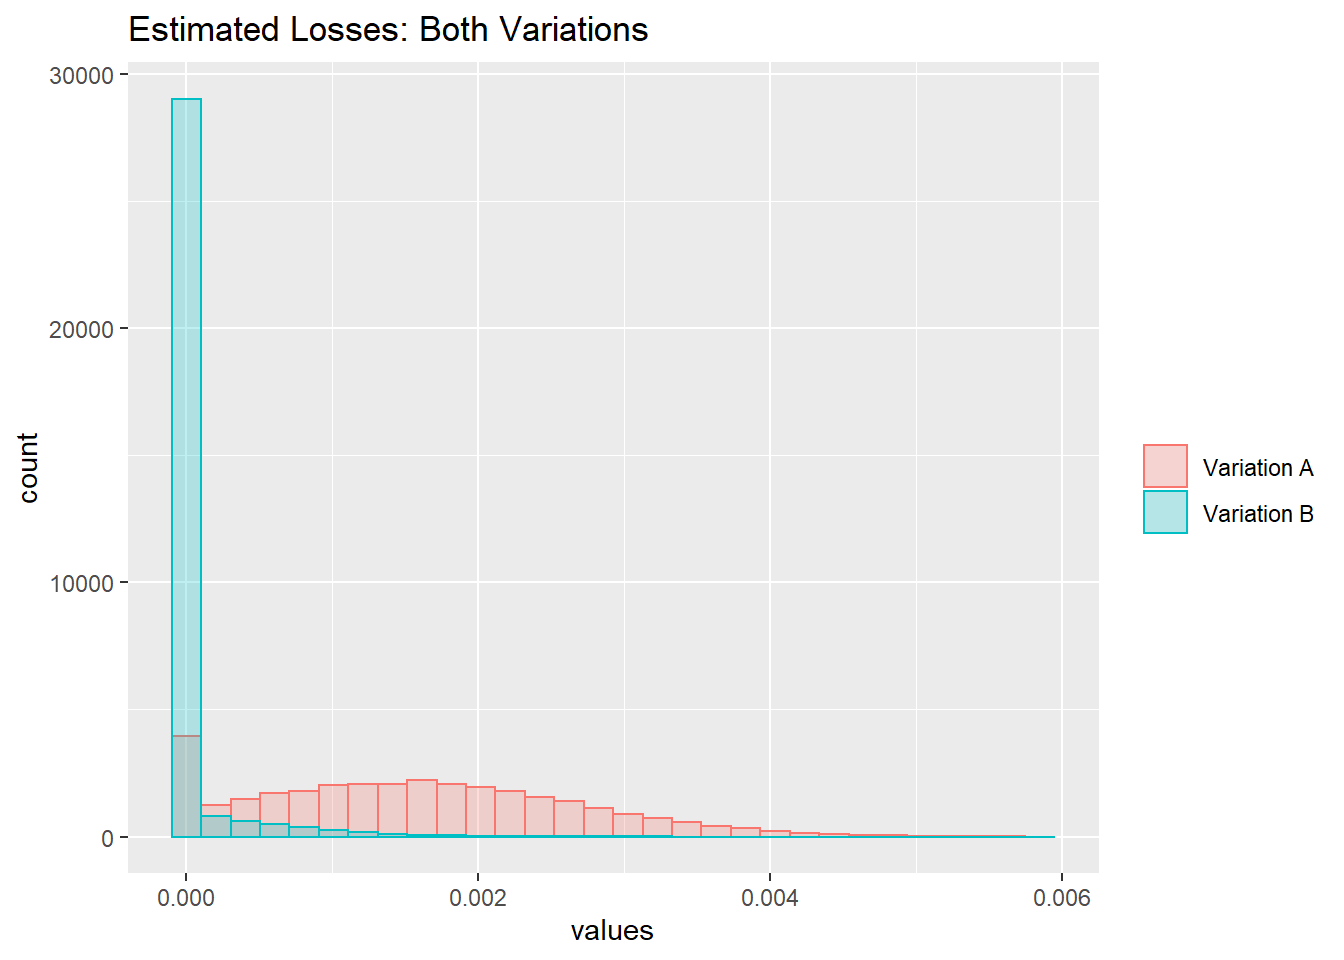
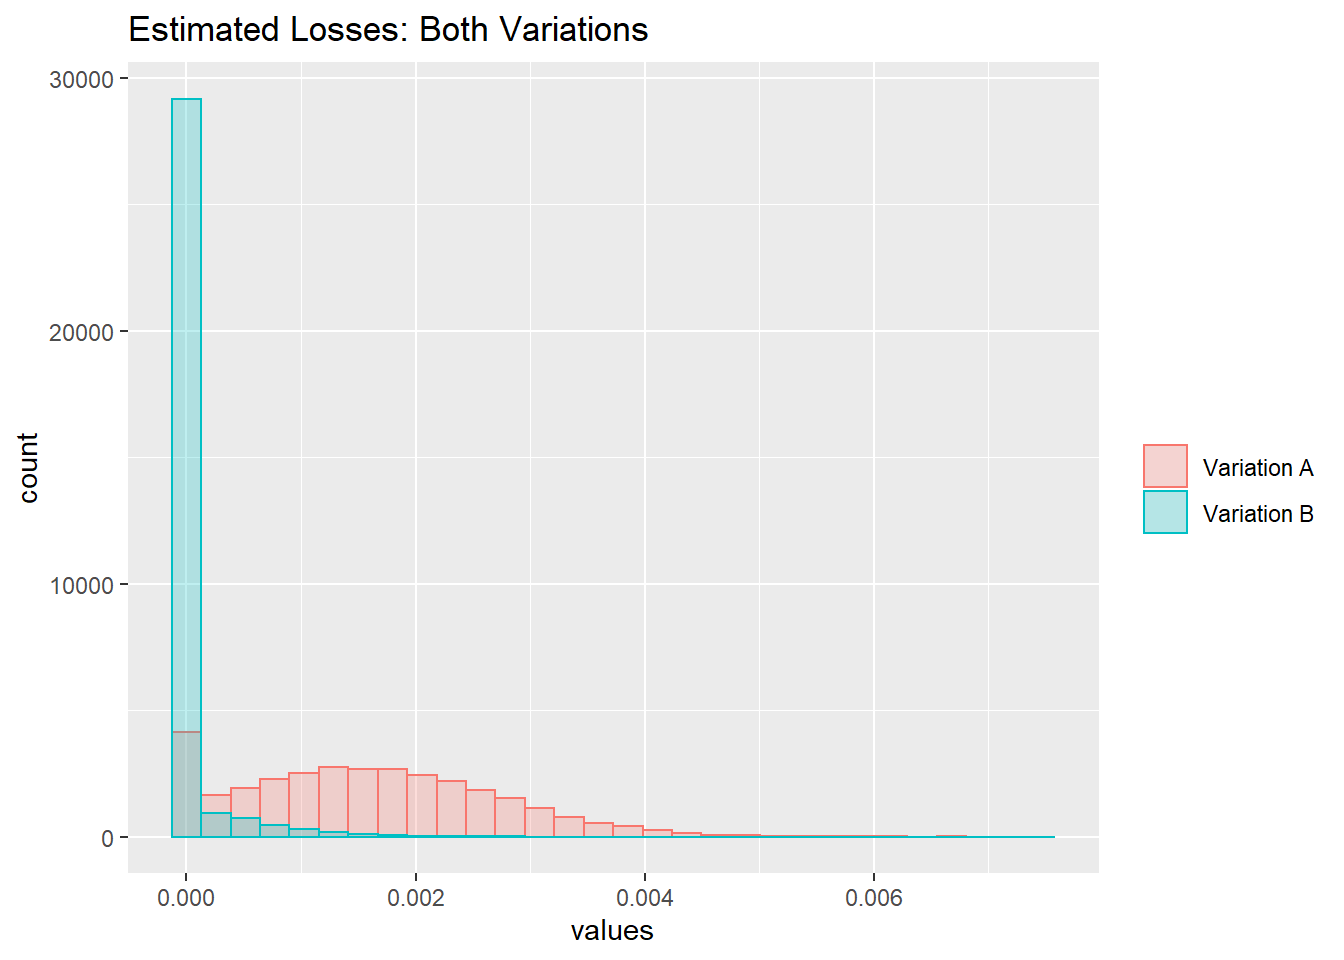
update home and navbar

diff --git a/docs/tutorial.html b/docs/tutorial.html
@@ -267,7 +267,7 @@ $(document).ready(function () {
         <span class="icon-bar"></span>
         <span class="icon-bar"></span>
       </button>
-      <a class="navbar-brand" href="index.html">Cars</a>
+      <a class="navbar-brand" href="index.html">The Bayesian A/B Test</a>
     </div>
     <div id="navbar" class="navbar-collapse collapse">
       <ul class="nav navbar-nav">
@@ -275,7 +275,7 @@ $(document).ready(function () {
   <a href="index.html">Home</a>
 </li>
 <li>
-  <a href="speed-and-distance.html">Speed and Distance</a>
+  <a href="tutorial.html">Tutorial</a>
 </li>
       </ul>
       <ul class="nav navbar-nav navbar-right">
@@ -385,11 +385,11 @@ end.fit &lt;- sampling(ABmodel,
 ## post-warmup draws per chain=8000, total post-warmup draws=32000.
 ## 
 ##              mean se_mean   sd     2.5%      25%      50%      75%    97.5% n_eff Rhat
-## theta[1]     0.12    0.00 0.01     0.11     0.12     0.12     0.12     0.13 24101    1
-## theta[2]     0.13    0.00 0.01     0.11     0.12     0.13     0.13     0.14 24584    1
-## lp__     -2157.94    0.01 1.01 -2160.69 -2158.32 -2157.64 -2157.23 -2156.96 13872    1
+## theta[1]     0.12    0.00 0.01     0.11     0.12     0.12     0.12     0.13 28063    1
+## theta[2]     0.13    0.00 0.01     0.11     0.12     0.13     0.13     0.14 28722    1
+## lp__     -2157.95    0.01 0.99 -2160.59 -2158.35 -2157.64 -2157.23 -2156.97 14451    1
 ## 
-## Samples were drawn using NUTS(diag_e) at Tue Dec 31 11:48:47 2019.
+## Samples were drawn using NUTS(diag_e) at Tue Dec 31 12:00:31 2019.
 ## For each parameter, n_eff is a crude measure of effective sample size,
 ## and Rhat is the potential scale reduction factor on split chains (at 
 ## convergence, Rhat=1).</code></pre>
@@ -402,7 +402,7 @@ end.fit &lt;- sampling(ABmodel,
 <pre class="r"><code>posterior.mat &lt;- as.matrix(end.fit)
 # Find the percent of click rates that are larger in the control group 
 sum(posterior.mat[,1]&gt;posterior.mat[,2])/nrow(posterior.mat)</code></pre>
-<pre><code>## [1] 0.1079688</code></pre>
+<pre><code>## [1] 0.1061562</code></pre>
 <p>We see that if we choose to switch from design A to design B, there is about an 11% chance that we are wrong. This might be too high of a risk for many people to consider switching, but it’s not the end of the story. The problem with quantifying the switching risk in this manner is that it treats all differences in the group click rates as equal. For example, suppose that in reality <span class="math inline">\(\theta_A-\theta_B = 0.0001\)</span> (i.e. theres a very small difference in favor of variation A). If we choose to adopt variation B based on the previous analysis, the mistake we make is not really a problem. On the other hand, suppose that <span class="math inline">\(\theta_A-\theta_B = 0.1\)</span>. Choosing to switch to variation B is a far more severe mistake in this case, because group A was significantly more favorable in reality. A class of functions called <em>loss functions</em> are used to assign penalties to increasing larger errors. If you’ve ever fit a regression model to data using least squares, you’ve fit a line of best fit by minimizing a quadratic loss function. The loss function I’ll use comes from Stucchio (2015). The loss function for staying with variation A is <span class="math display">\[L(\theta_A, \theta_B, A) = \max(\theta_B-\theta_A, 0).\]</span> Similarly, if we choose variation B, the loss function is <span class="math display">\[L(\theta_A, \theta_B, B) = \max(\theta_A-\theta_B, 0).\]</span> Along with having some nice properties (I’ll include Stucchio’s paper in the repository), this loss functino has the advantage that the output values are on the same scale as the click probabilities. That is, the loss function tells us the percentage of users that we would lose <em>given that we made the wrong decision.</em> We can code this loss function into R and then apply it to the matrix of posterior observations we defined above</p>
 <pre class="r"><code>lossA &lt;- function(theta.vec){
   if (theta.vec[2]-theta.vec[1] &gt; 0) return(theta.vec[2]-theta.vec[1])
@@ -418,9 +418,9 @@ loss.dist.A &lt;- apply(posterior.mat[,1:2], 1, lossA)</code></pre>
 <p><img src="tutorial_files/figure-html/unnamed-chunk-10-1.png" width="50%" /><img src="tutorial_files/figure-html/unnamed-chunk-10-2.png" width="50%" /><img src="tutorial_files/figure-html/unnamed-chunk-10-3.png" width="50%" /></p>
 <p>We can also calculate the expected loss for each variation.</p>
 <pre class="r"><code>mean(loss.dist.A)</code></pre>
-<pre><code>## [1] 0.001537183</code></pre>
+<pre><code>## [1] 0.00154837</code></pre>
 <pre class="r"><code>mean(loss.dist.B)</code></pre>
-<pre><code>## [1] 6.223857e-05</code></pre>
+<pre><code>## [1] 6.033403e-05</code></pre>
 <p>Variation B is the clear winner here. Even though there’s an 11% chance that we’re making a mistake by switching to group B, the expected loss is so small that making such a mistake isn’t really an issue. Another great advantage of this technique is that we can set an expected loss threshold before we conduct the A/B test. The test is then run until one of the two groups falls below the threshold. This ensures that we collect enough data to make an accurate and informed decision, but also ensures that we don’t waste time and resources. Finally, we’ll conclude that the e-commerce website is better off if they change the color of the “Add to Cart” button.</p>
 </div>
 <div id="conclusion" class="section level1">

diff --git a/docs/index.html b/docs/index.html
@@ -267,7 +267,7 @@ $(document).ready(function () {
         <span class="icon-bar"></span>
         <span class="icon-bar"></span>
       </button>
-      <a class="navbar-brand" href="index.html">Cars</a>
+      <a class="navbar-brand" href="index.html">The Bayesian A/B Test</a>
     </div>
     <div id="navbar" class="navbar-collapse collapse">
       <ul class="nav navbar-nav">
@@ -275,7 +275,7 @@ $(document).ready(function () {
   <a href="index.html">Home</a>
 </li>
 <li>
-  <a href="speed-and-distance.html">Speed and Distance</a>
+  <a href="tutorial.html">Tutorial</a>
 </li>
       </ul>
       <ul class="nav navbar-nav navbar-right">
